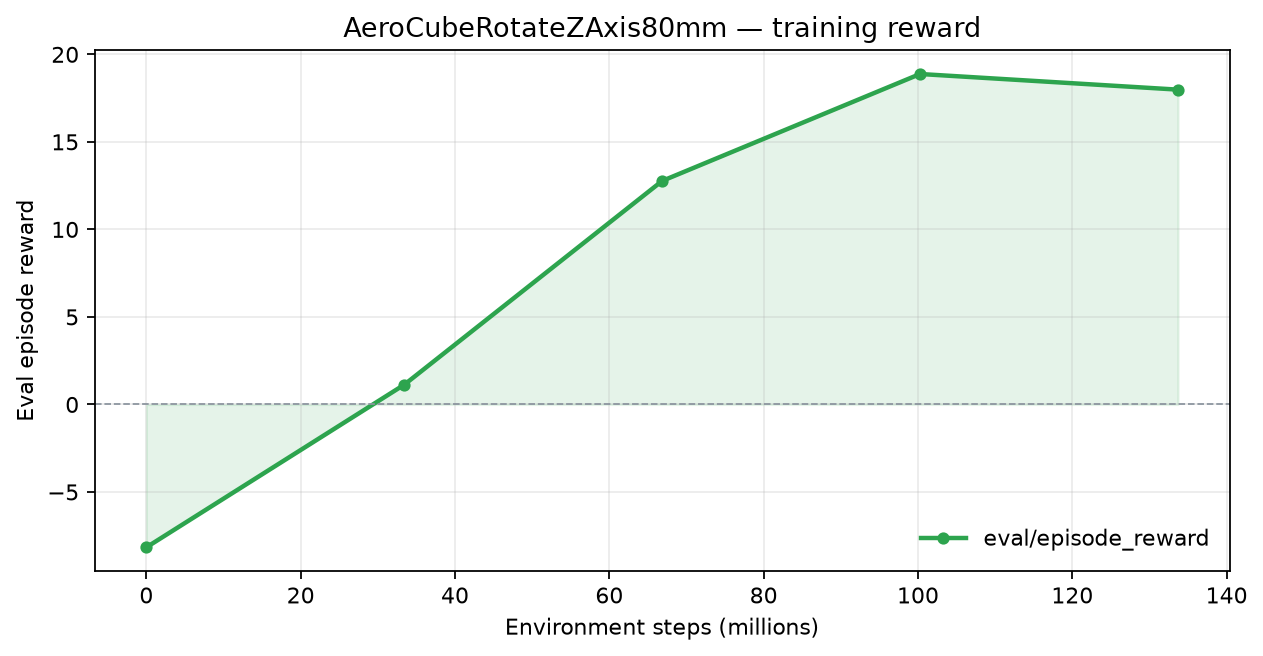
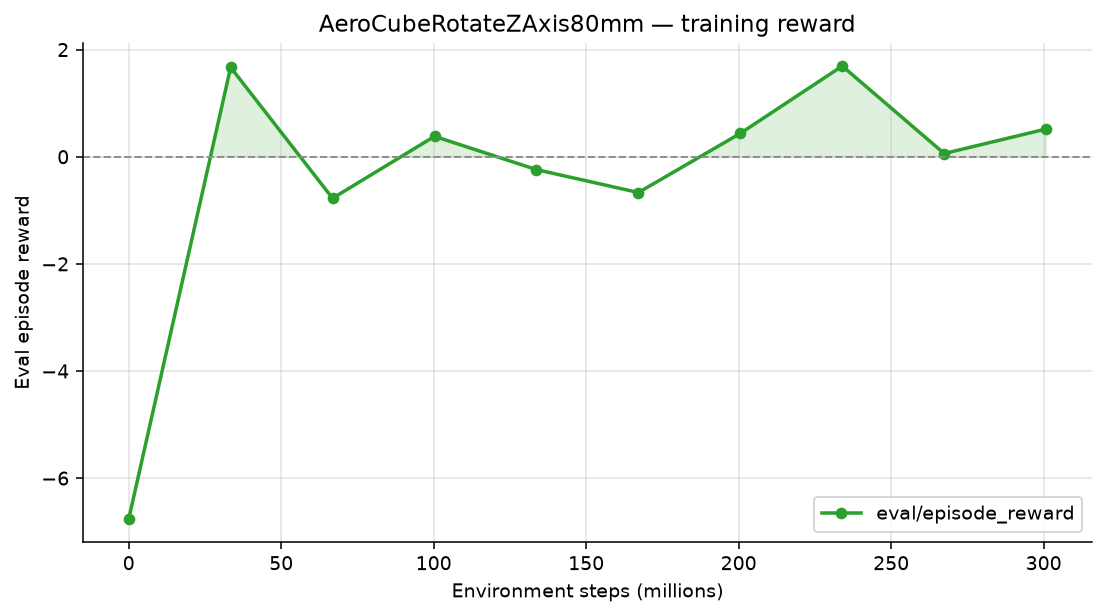
Add 50mm and refreshed 80mm training reward plots.
Document the retrained AeroCubeRotateZAxis baselines through ~301M steps and point play/infer examples at the new checkpoints.

diff --git a/README.md b/README.md
@@ -59,9 +59,9 @@ Play a checkpoint (writes `rollout*.mp4` into the resolved step folder):
 ./scripts/train_mujoco_rl_baseline.sh --play_only --load_checkpoint_path PATH
 ./scripts/train_mujoco_rl_baseline.sh --play_only --load_checkpoint_path latest
 
-./scripts/train_mujoco_rl_baseline.sh --play_only --load_checkpoint_path sim_rl/mujoco_playground/logs/AeroCubeRotateZAxis-20260727-194230-baseline/checkpoints/000066846720
+./scripts/train_mujoco_rl_baseline.sh --play_only --load_checkpoint_path sim_rl/mujoco_playground/logs/AeroCubeRotateZAxis-20260801-122434-baseline/checkpoints/000300810240
 
-./scripts/train_mujoco_rl_baseline.sh AeroCubeRotateZAxis80mm --play_only --load_checkpoint_path sim_rl/mujoco_playground/logs/AeroCubeRotateZAxis80mm-20260731-154555-baseline/checkpoints/000133693440
+./scripts/train_mujoco_rl_baseline.sh AeroCubeRotateZAxis80mm --play_only --load_checkpoint_path sim_rl/mujoco_playground/logs/AeroCubeRotateZAxis80mm-20260801-123345-baseline/checkpoints/000300810240
 
 ./scripts/train_mujoco_rl_baseline.sh AeroCubeRotateZAxis80mm_30slope --play_only --load_checkpoint_path sim_rl/mujoco_playground/logs/AeroCubeRotateZAxis80mm_30slope-20260731-185555-half_action_scale_1b/checkpoints/001007288320
 ```
@@ -70,11 +70,15 @@ Play a checkpoint (writes `rollout*.mp4` into the resolved step folder):
 
 ![Aero cube rotate-Z training reward comparison](./assets/rl_train_reward_compare.png)
 
+**`AeroCubeRotateZAxis`** (`...20260801-122434-baseline`)
+
+![50mm train reward](./assets/rl_train_reward_50mm.png)
+
 **`AeroCubeRotateZAxis38mm`** (`...38mm-20260731-113909-baseline`)
 
 ![38mm train reward](./assets/rl_train_reward_38mm.png)
 
-**`AeroCubeRotateZAxis80mm`** (`...80mm-20260731-154555-baseline`)
+**`AeroCubeRotateZAxis80mm`** (`...80mm-20260801-123345-baseline`)
 
 ![80mm train reward](./assets/rl_train_reward_80mm.png)
 
@@ -82,7 +86,7 @@ Play a checkpoint (writes `rollout*.mp4` into the resolved step folder):
 
 ![80mm 30deg slope train reward](./assets/rl_train_reward_80mm_30slope.png)
 
-`AeroCubeRotateZAxis` (`...20260727-194230-baseline`) has no local TensorBoard events, so no curve is available. The 80mm 30deg slope plot covers logged evals through ~556M steps (later checkpoint `001007288320` is beyond the last TB point).
+50mm / 38mm / 80mm baselines are plotted through ~301M steps. The 80mm 30° slope curve covers logged evals through ~1.01B steps.
 
 ## Real-hand RL inference
 
@@ -115,9 +119,9 @@ sudo chmod 666 /dev/ttyACM0
   --env_name AeroCubeRotateZAxis38mm --cmd-bias=0,0,0,0,0,0,0
 
 
-./scripts/infer_aero_hand_rl.sh --cube-pose mock --checkpoint sim_rl/mujoco_playground/logs/AeroCubeRotateZAxis-20260727-194230-baseline/checkpoints/000066846720  --env_name AeroCubeRotateZAxis --gpu 0 --duration 60 --cmd-bias=0,0,0,0,0,0,0 --vel 0.2
+./scripts/infer_aero_hand_rl.sh --cube-pose mock --checkpoint sim_rl/mujoco_playground/logs/AeroCubeRotateZAxis-20260801-122434-baseline/checkpoints/000300810240  --env_name AeroCubeRotateZAxis --gpu 0 --duration 60 --cmd-bias=0,0,0,0,0,0,0 --vel 0.2
 
-./scripts/infer_aero_hand_rl.sh --cube-pose mock --checkpoint sim_rl/mujoco_playground/logs/AeroCubeRotateZAxis80mm-20260731-154555-baseline/checkpoints/000133693440 --env_name AeroCubeRotateZAxis80mm --gpu 0 --duration 60
+./scripts/infer_aero_hand_rl.sh --cube-pose mock --checkpoint sim_rl/mujoco_playground/logs/AeroCubeRotateZAxis80mm-20260801-123345-baseline/checkpoints/000300810240 --env_name AeroCubeRotateZAxis80mm --gpu 0 --duration 60
 
 ./scripts/infer_aero_hand_rl.sh --cube-pose mock --checkpoint sim_rl/mujoco_playground/logs/AeroCubeRotateZAxis80mm_30slope-20260731-185555-half_action_scale_1b/checkpoints/001007288320 --env_name AeroCubeRotateZAxis80mm_30slope --gpu 0 --duration 60
 ```
